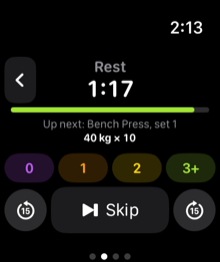
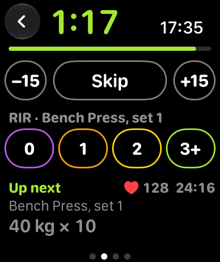
Watch settings: rest timer pictures show the new rest screen
Both tiles now show the same effort screen from the redesigned rest page
(#1100), with and without the progress bar, so the only difference is the
choice being made. Shot on a 46 mm simulator, 220x262.

Claude-Session: https://claude.ai/code/session_01LXHs9RamX7CVCttYsqtzmU

diff --git a/frontend/src/views/WatchSettings.jsx b/frontend/src/views/WatchSettings.jsx
@@ -13,8 +13,7 @@ import { loadHealth, onHealthChange } from '../lib/health-sync.js'
 import { fmtAgo } from '../lib/format.js'
 import Icon from '../components/Icon.jsx'
 
-// The two rest screens as the watch draws them (real CI screenshots in public/watch/).
-// TODO swap rest-plain.png for the "effort-plain" CI shot once that run exists (ios.yml), so both show the effort chips.
+// The two rest screens as the watch draws them (simulator screenshots of the effort screen from #1100, in public/watch/).
 const REST_LOOKS = [
   { value: 'ring', label: 'Progress bar', img: 'watch/rest-bar.png', alt: 'Watch rest screen: the countdown with a thin progress bar under it' },
   { value: 'plain', label: 'Countdown only', img: 'watch/rest-plain.png', alt: 'Watch rest screen: just the big countdown' },
